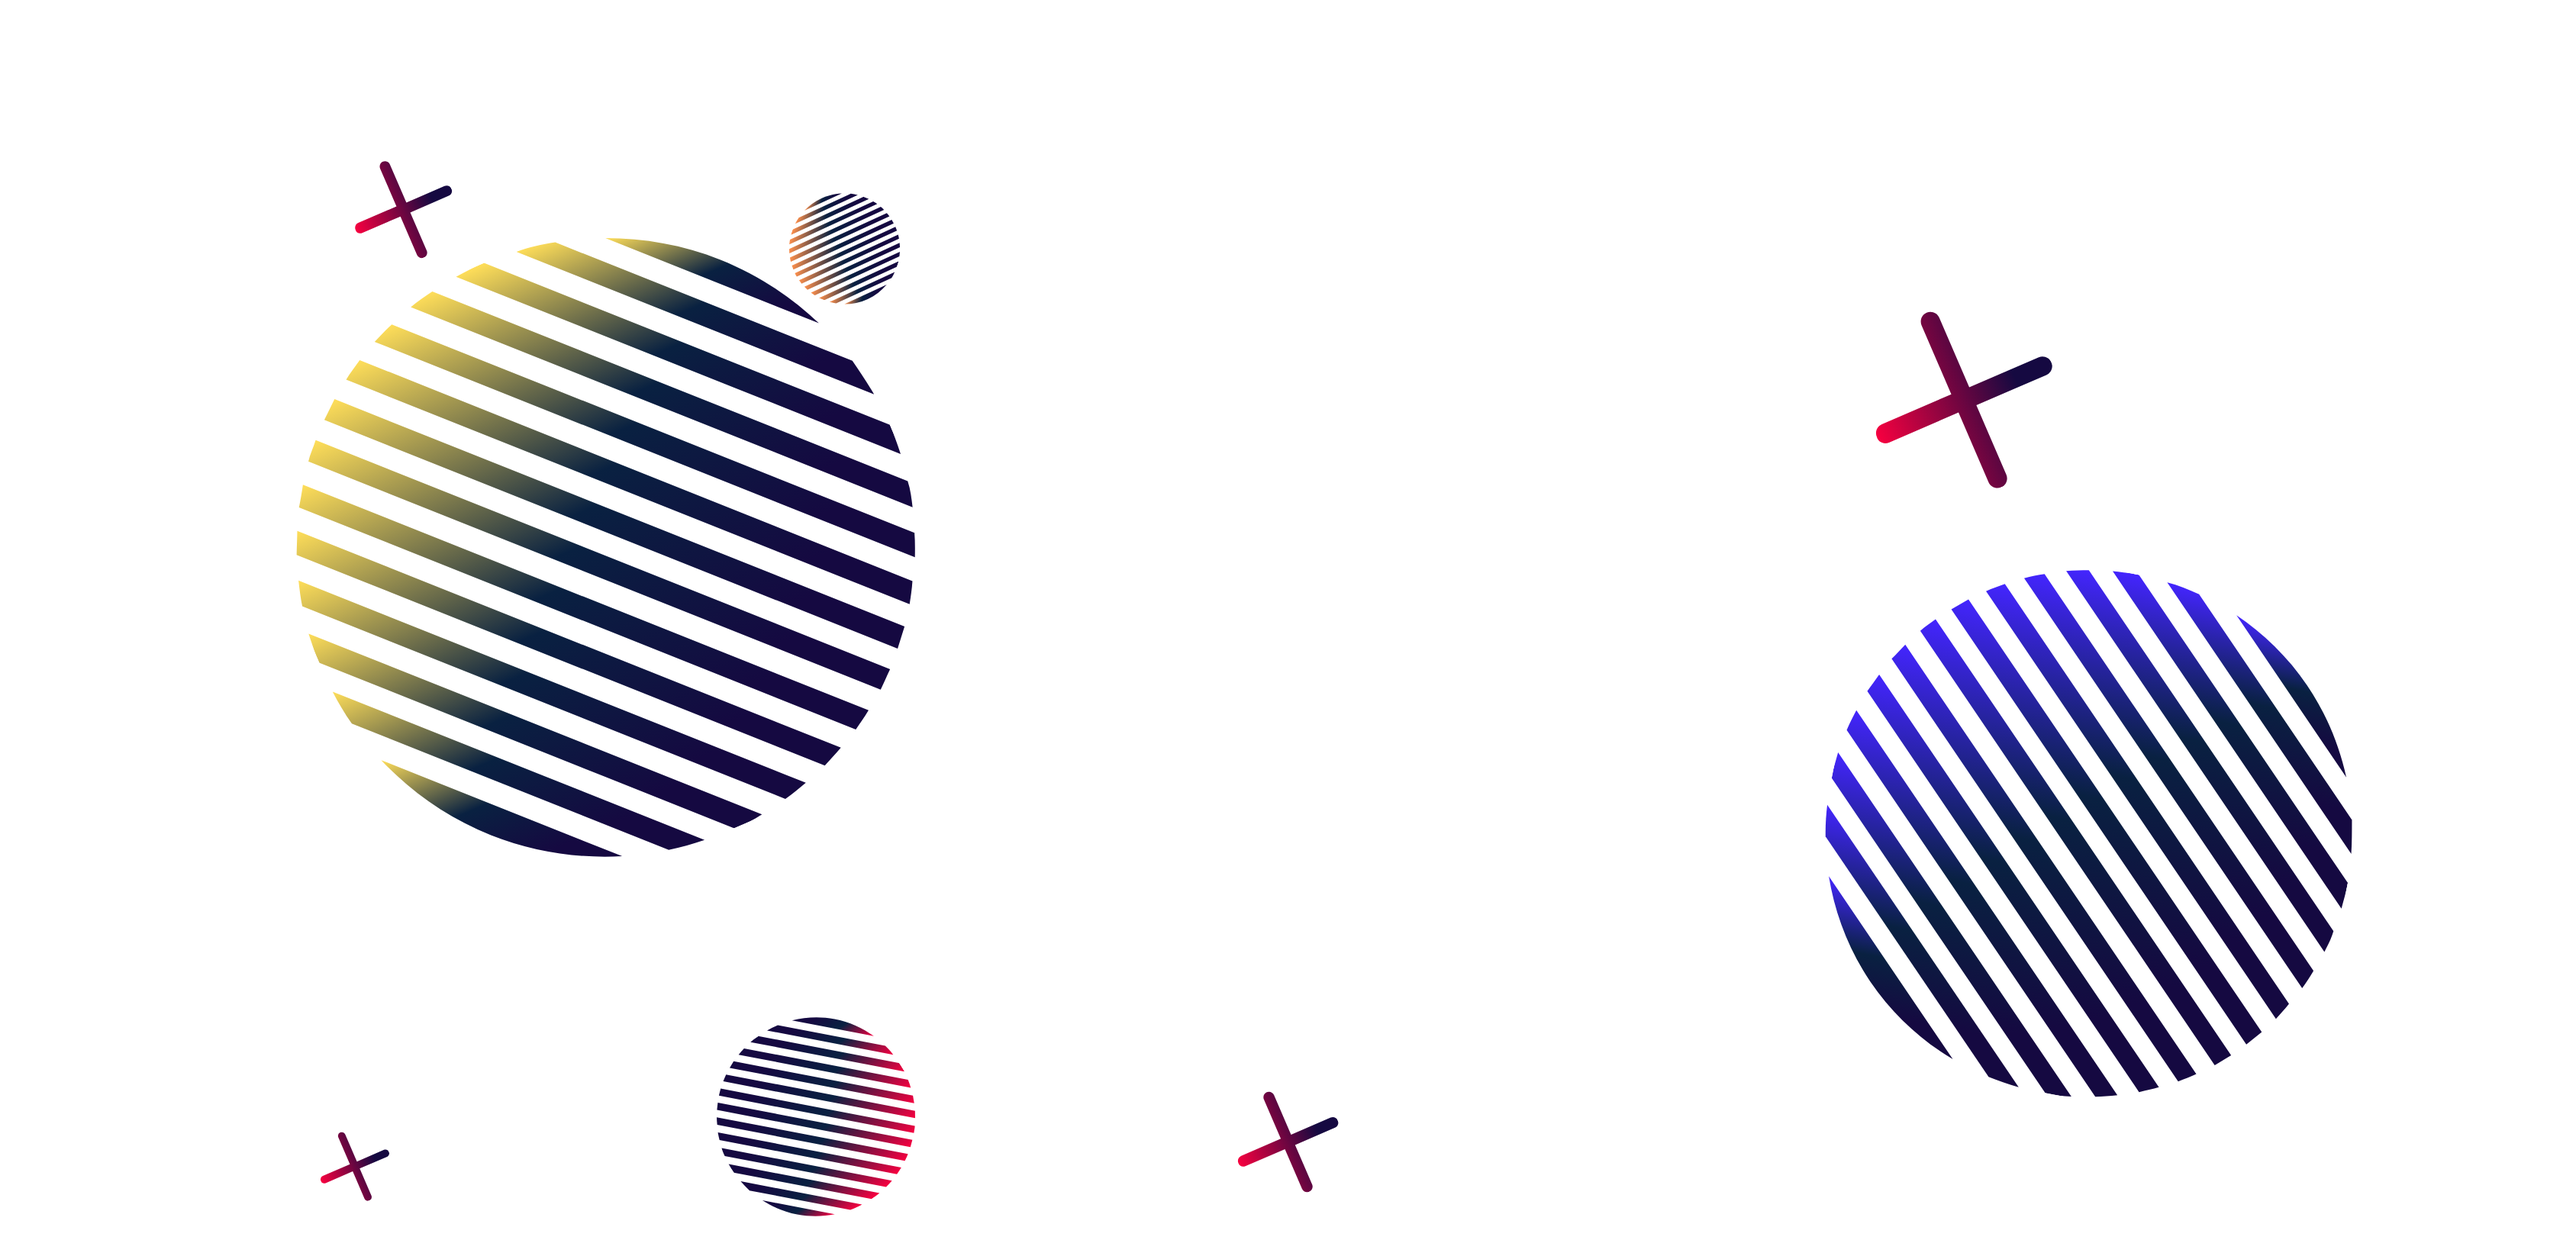
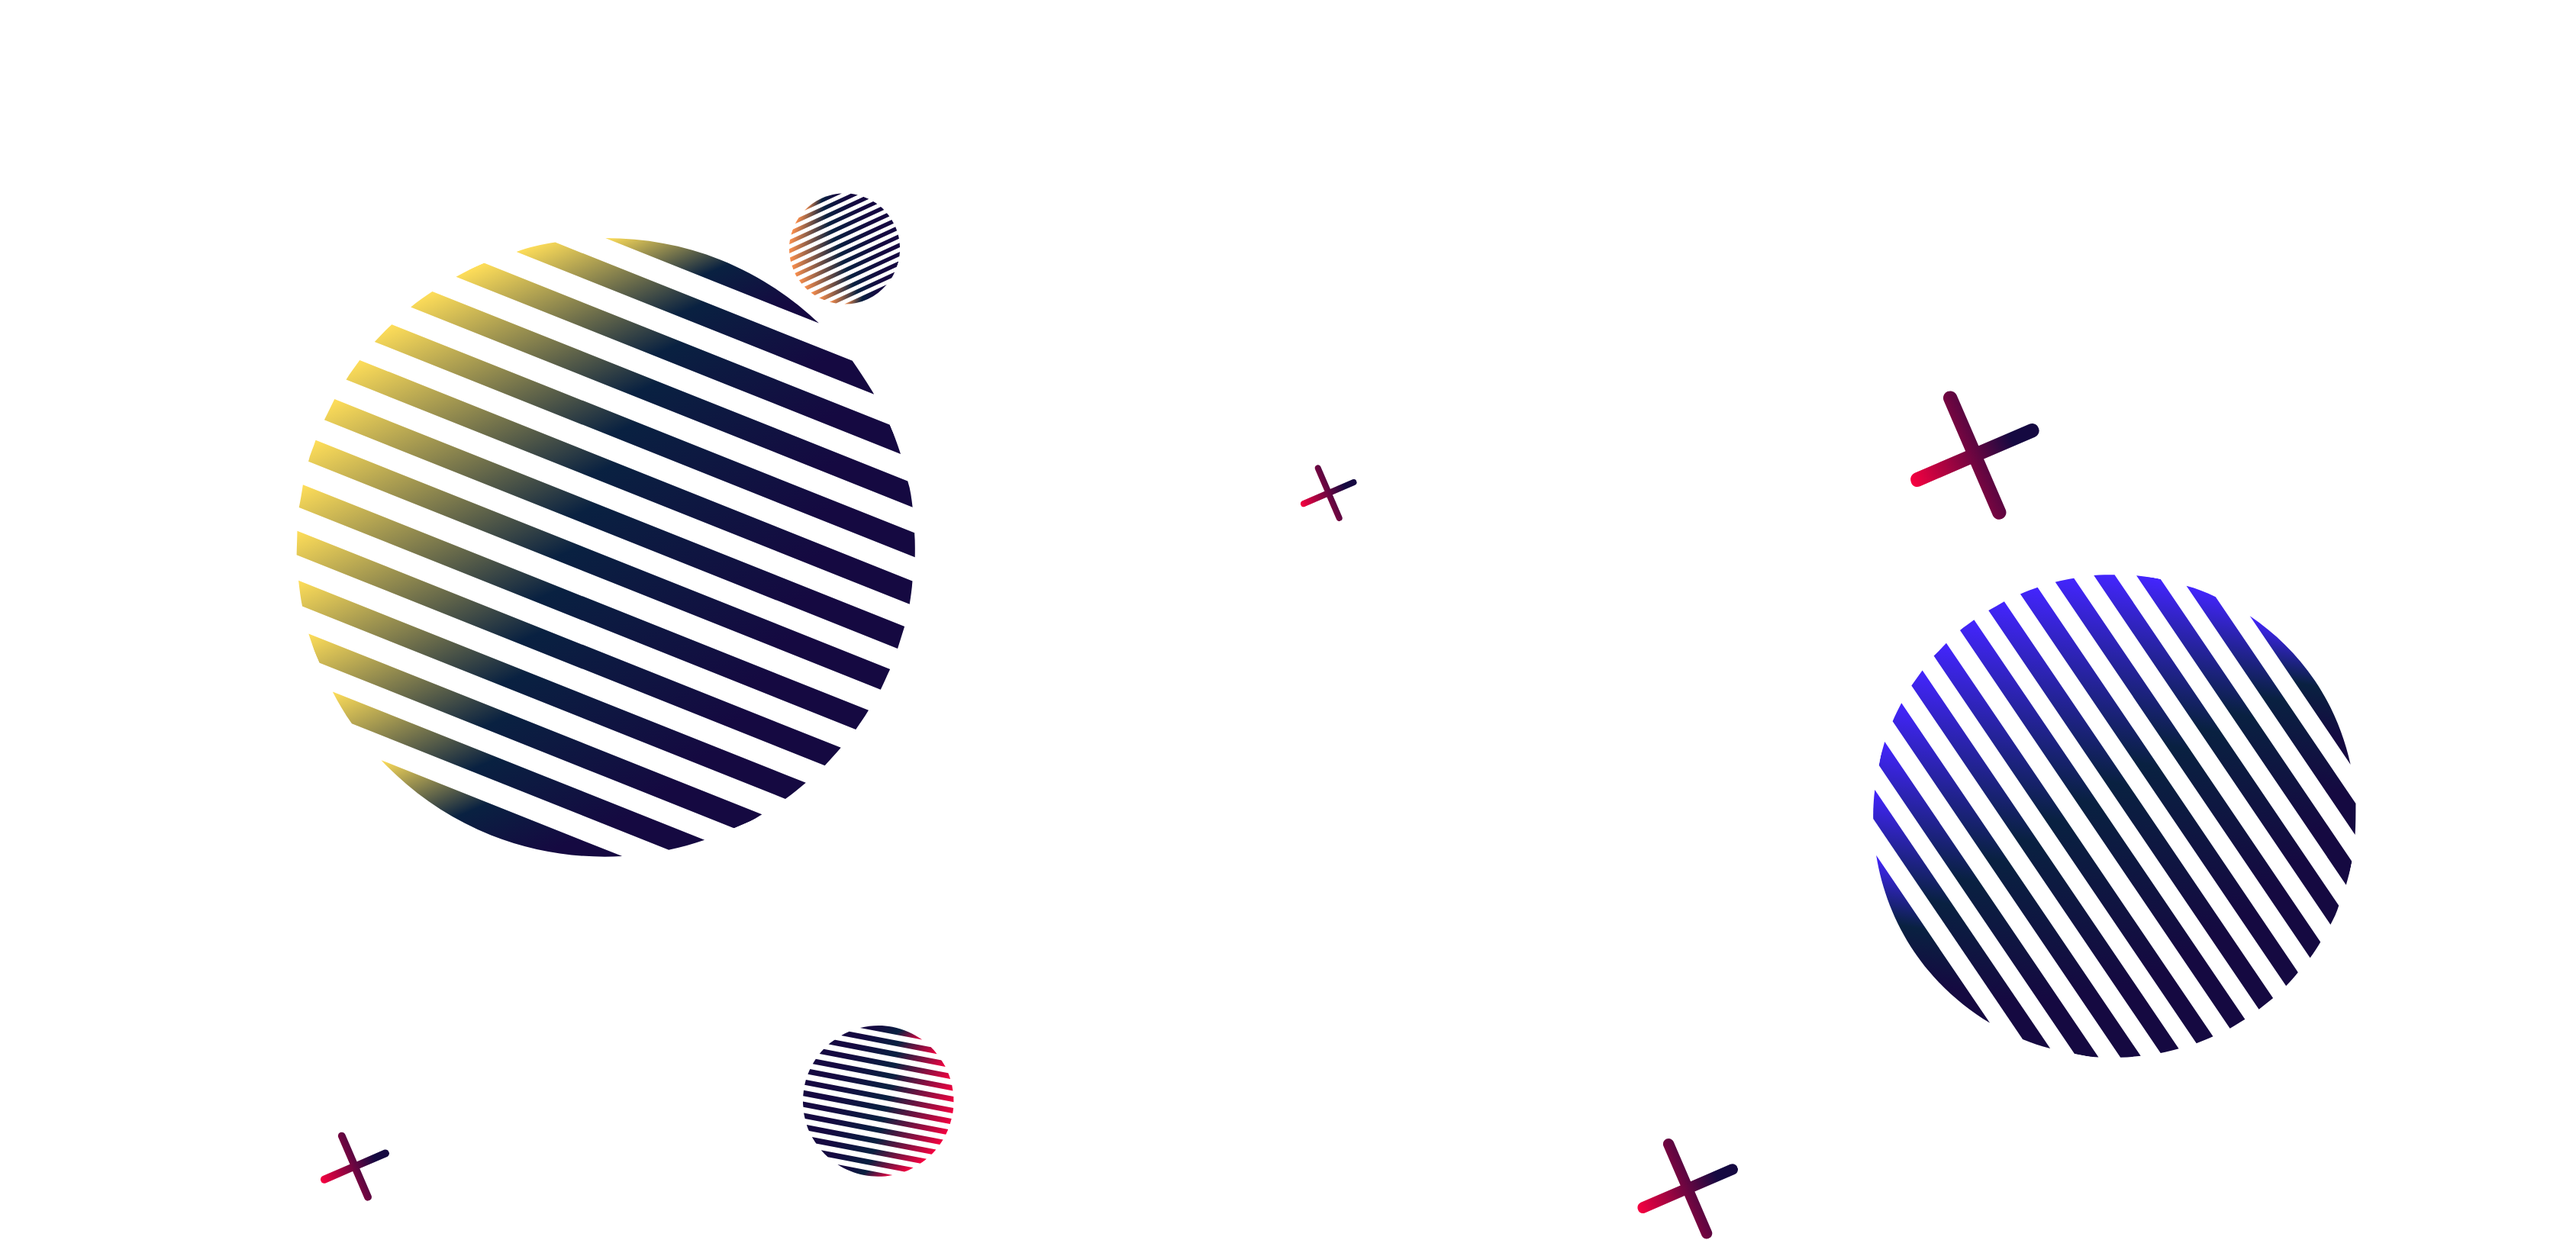
m,n,m

diff --git a/index.html b/index.html
@@ -269,7 +269,7 @@ You can sort items by match, prices etc..">
                 </div>
                 <!-- End: Highlight Phone -->
                 <!-- Start: Modern Contact Form -->
-                <section id="getintouch" class="getintouch" style="background: url(&quot;/assets/img/koko12.png&quot;) center / cover no-repeat, #ffffff;">
+                <section id="getintouch" class="getintouch" style="background: url(&quot;/assets/img/koko1.png&quot;) center / cover no-repeat, #ffffff;">
                     <div class="container modern-form" id="contact-container" style="padding-bottom: 30px;padding-top: 30px;">
                         <div class="text-center" style="margin-bottom: 20px;">
                             <h4 style="color: #212529;font-size: 48px; font-weight: 300;">Whats next?</h4>
